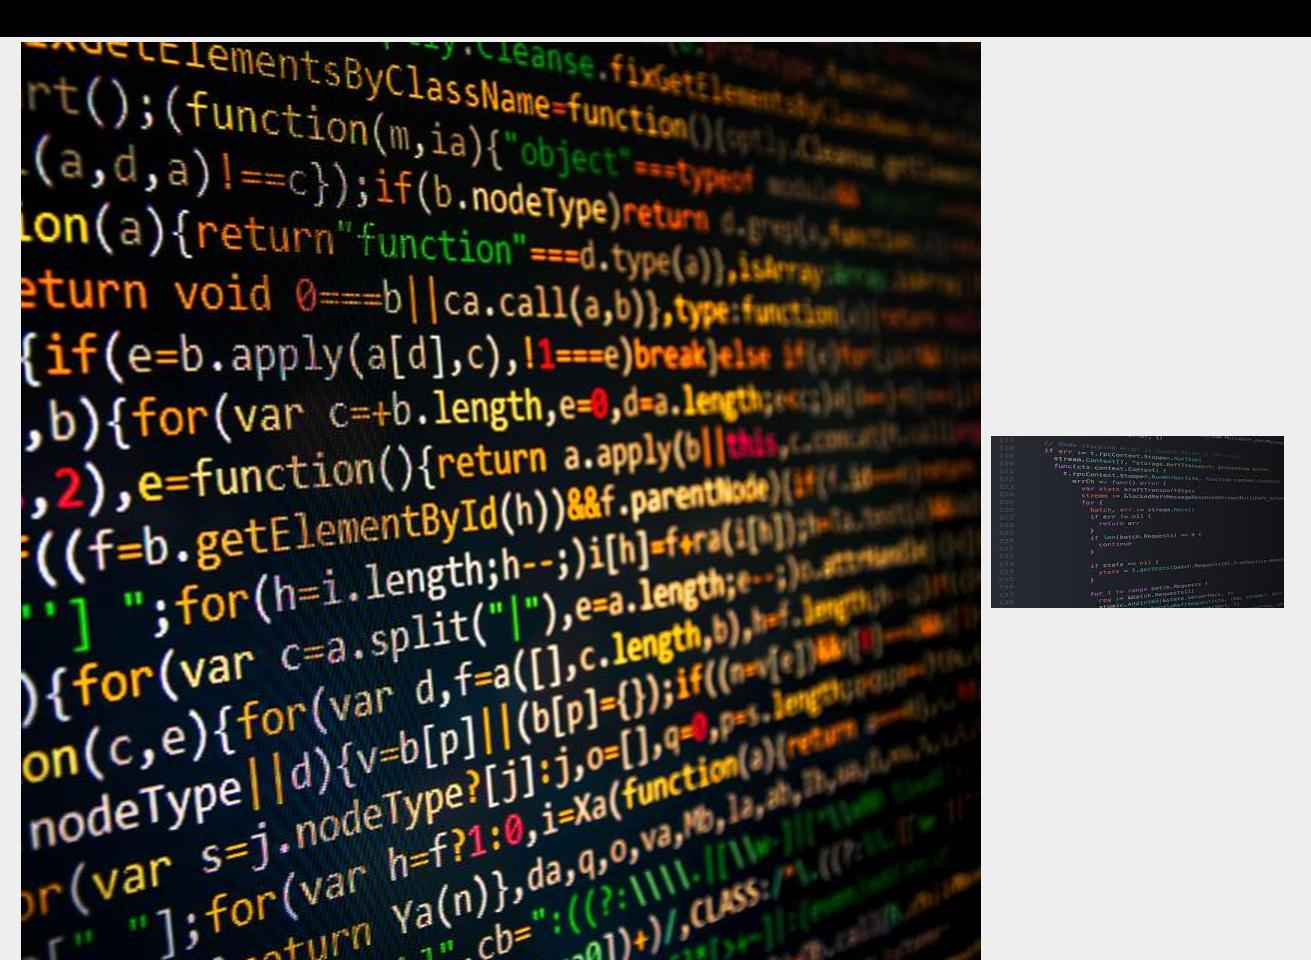
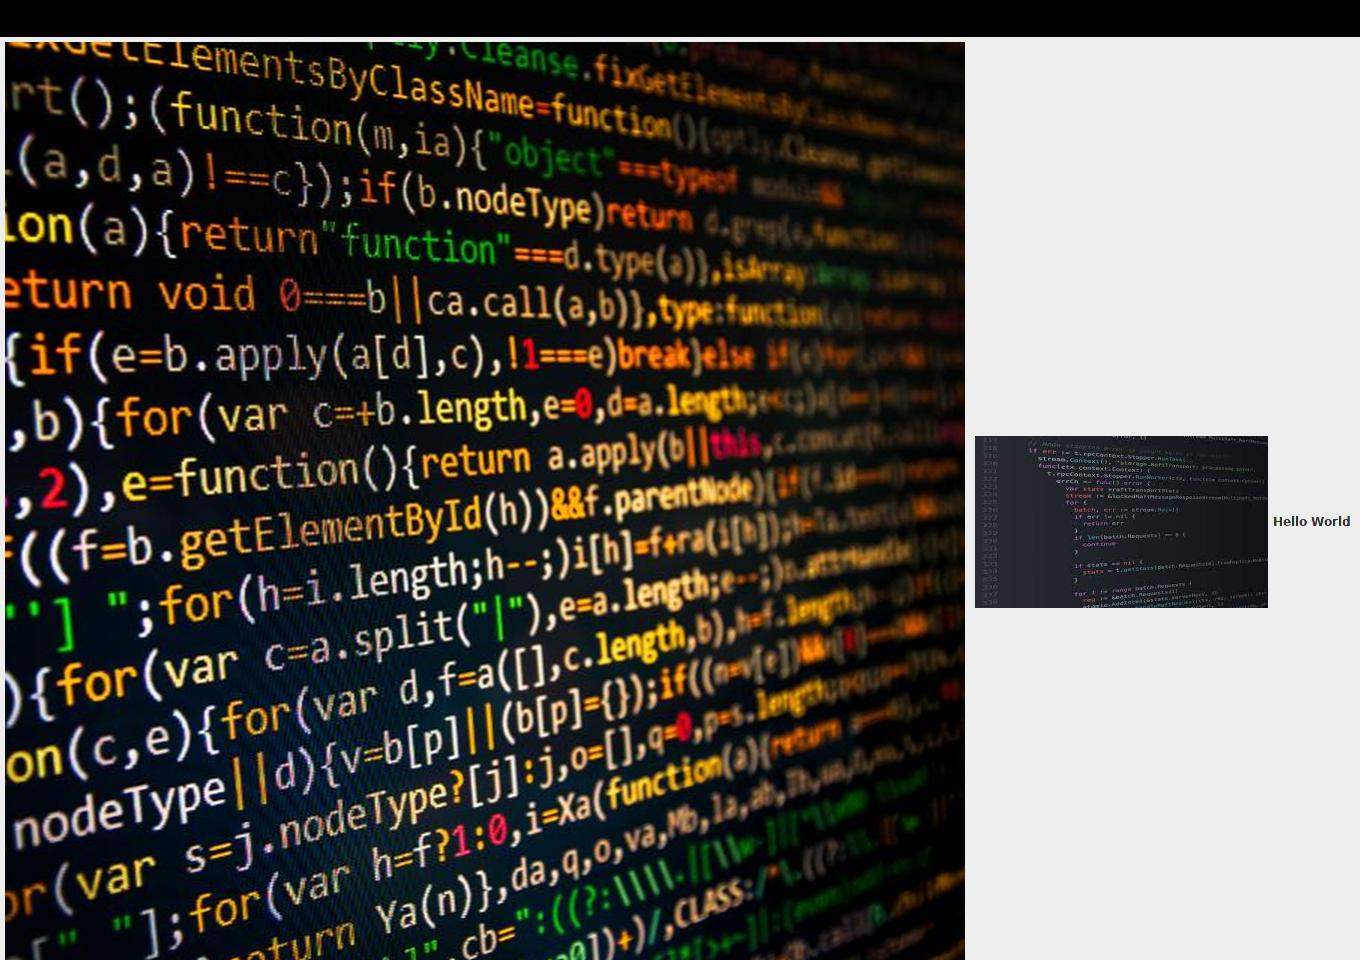
Random position

diff --git a/Main.java b/Main.java
@@ -111,7 +111,8 @@ public class Main{
   }
   public static void creatingSlide(String bgImagePath, File textFile, int bgWidth, int bgHeight, int imgCount) {
     try{
-      JPanel background = new JPanel();
+
+      Janel background = new JPanel();
       JLabel backgroundImage = new JLabel();
       backgroundImage.setIcon(new ImageIcon(bgImagePath));
       background.add(backgroundImage);
@@ -125,10 +126,29 @@ public class Main{
       image1.setIcon(new ImageIcon(image1FileScanner.nextLine()));
       main.add(image1);
 
+      Random randomImagePosition = new Random();
+
+      int imageWidth = randomImagePosition.nextInt(bgWidth);
+      int imageHeight = randomImagePosition.nextLine(bgHeight);
+
+      image1.setLocation(imageWidth, imageHeight);
+
+      Scanner textFileScanner = new Scanner(textFile);
+      JLabel slideText = new JLabel(textFileScanner.nextLine());
+      main.add(slideText);
+
+      Random randomTextPosition = new Random();
+
+      int textWidth = randomTextPosition.nextInt(bgWidth);
+      int textHeight = randomTextPosition.nextInt(bgHeight);
+
+      slideText.setLocation(textWidth, textHeight);
+
       background.add(main);
       mainWindow.add(background);
       mainWindow.setSize(bgWidth, bgHeight);
       mainWindow.setVisible(true);
+
       System.out.println("Do you like it?\ny for Yes\nn for No");
       Scanner doYouLike = new Scanner(System.in);
       if (doYouLike.nextLine().equals("y")) {
